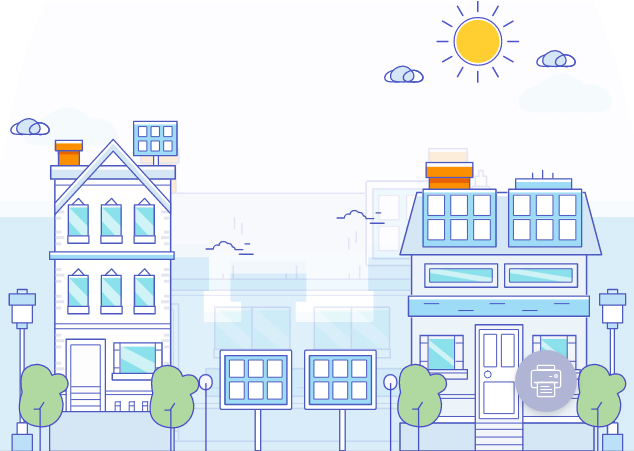
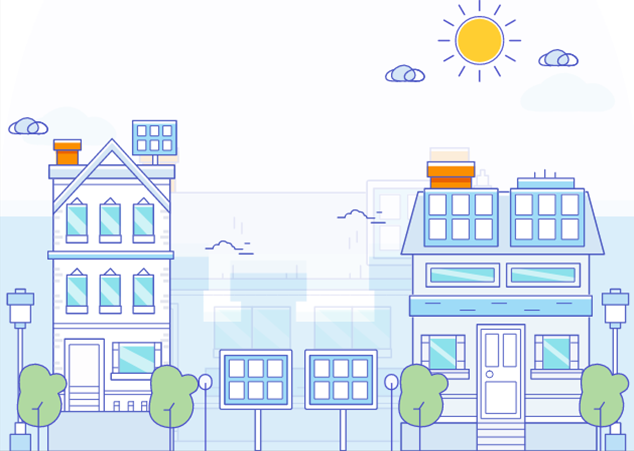
결과보기수정

diff --git a/dist/css/admin.css b/dist/css/admin.css
@@ -515,6 +515,8 @@ tr:hover .member-info-layer{
 
 
 /* 결과페이지 */
+.btn-print {background: url("../../img/btn_printer.png") left top no-repeat; display: inline-block; width: 80px; height: 80px; position: absolute; right: 60px; bottom: 38px; font-size: 0;}
+.btn-print:hover {background: url("../../img/btn_printer_hover.png") left top no-repeat;}
 .result-menu {position: fixed; left: 10%; top:50px}
 .result-menu li a {font-size: 14px; color: #B2B2B2!important; padding: 5px 0; display: block}
 .result-menu li a:hover{color: #FB8F01!important; text-decoration: none}
@@ -526,9 +528,10 @@ tr:hover .member-info-layer{
 #result-area section h3 span {color: #ABABAB; font-size: 14px; padding-left: 5px}
 #result-area section h3 span.v1 {color: #000; }
 #result-area section h4 {font-size: 14px;}
-#result-page01 {padding: 50px 0 0;}
+#result-page01 {padding: 50px 0 0; overflow: hidden; position: relative}
 #result-page01 .result-title {font-size: 26px; color: #333854; font-weight: bold; margin-bottom: 60px; margin-top: 200px}
-#result-page01 .result-address {font-size: 25px; color: #333854; margin-bottom: 20px}
+#result-page01 .result-address::after {content: ''; display: inline-block; width: 32px; height: 5px; background: #333854; position: absolute; top: -20px; left:0}
+#result-page01 .result-address {font-size: 25px; color: #333854; margin-bottom: 20px; position: relative}
 #result-page01 .result-name {font-size: 19px; color: #333854;}
 #result-page01 .result-date {font-size: 17px; color: #333854;}
 #result-page01 .result-img {}
@@ -542,8 +545,8 @@ tr:hover .member-info-layer{
 #result-page02 .top-map-area img {height: 148px; width: 100%} 
 
 @media print {
-	.result-menu  {display: none;}
-	#result-page01 .result-img {position: absolute; bottom: 0; left:0; right: 0;}
+	.result-menu,.btn-print  {display: none;}
+	#result-page01 .result-img {position: fixed; bottom: 0; left:0; right: 0;}
 	
 }
 

diff --git a/admin_html/33_결과보기_고객.html b/admin_html/33_결과보기_고객.html
@@ -8,9 +8,6 @@
 <title>현대에너지 솔루션입니다.</title>
 <link href="../dist/css/admin.css" rel="stylesheet">
 <link href="../dist/css/bootstrap.min.css" rel="stylesheet">
-<style>
-	@media print {.not {display: none;}}	
-</style>
 </head>
 
 <body style="background-color: #fff!important">
@@ -43,6 +40,7 @@
 				<div class="result-name">양지혁 고객님</div>
 				<div class="result-date">2020년 01월 22일</div>
 				<div class="result-img"><img src="../img/result_img.png"  alt="표지디자인"/></div>
+				<a href="#" class="btn-print">프린트하기</a>
 			</div>
 		</section>
 		<section id="result-page02">

diff --git a/admin_html/34_결과보기_관리자.html b/admin_html/34_결과보기_관리자.html
@@ -8,9 +8,6 @@
 <title>현대에너지 솔루션입니다.</title>
 <link href="../dist/css/admin.css" rel="stylesheet">
 <link href="../dist/css/bootstrap.min.css" rel="stylesheet">
-<style>
-	@media print {.not {display: none;}}	
-</style>
 </head>
 
 <body style="background-color: #fff!important">
@@ -44,6 +41,7 @@
 				<div class="result-name">양지혁 고객님</div>
 				<div class="result-date">2020년 01월 22일</div>
 				<div class="result-img"><img src="../img/result_img.png"  alt="표지디자인"/></div>
+				<a href="#" class="btn-print">프린트하기</a>
 			</div>
 		</section>
 		<section id="result-page02">
